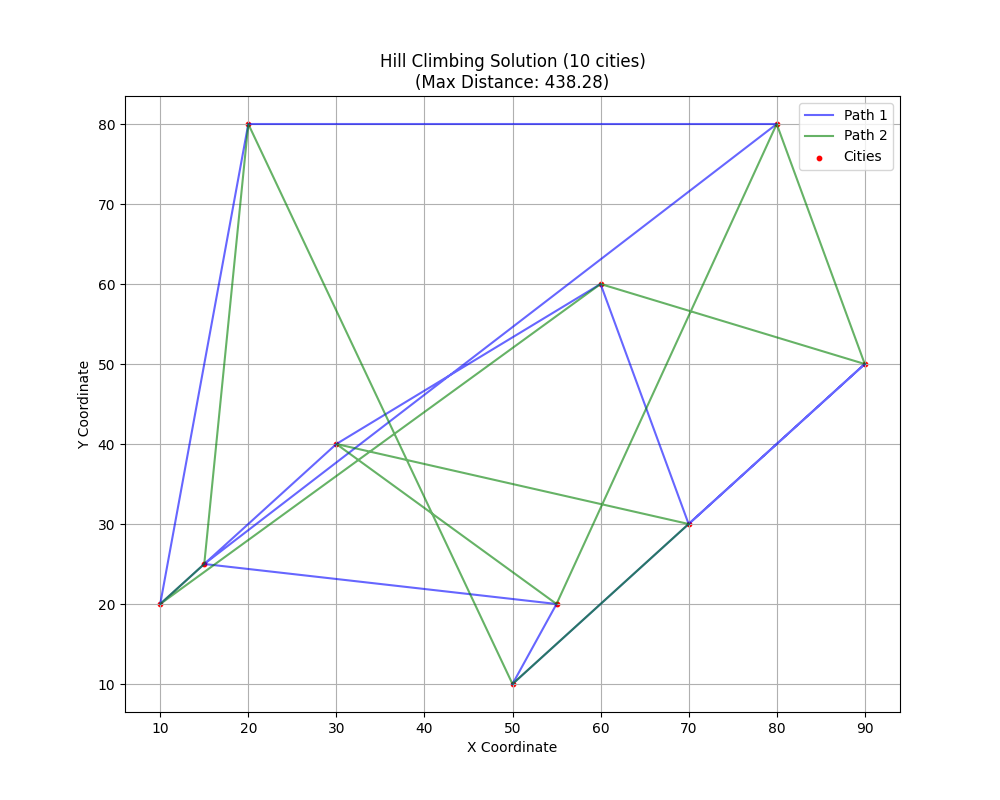
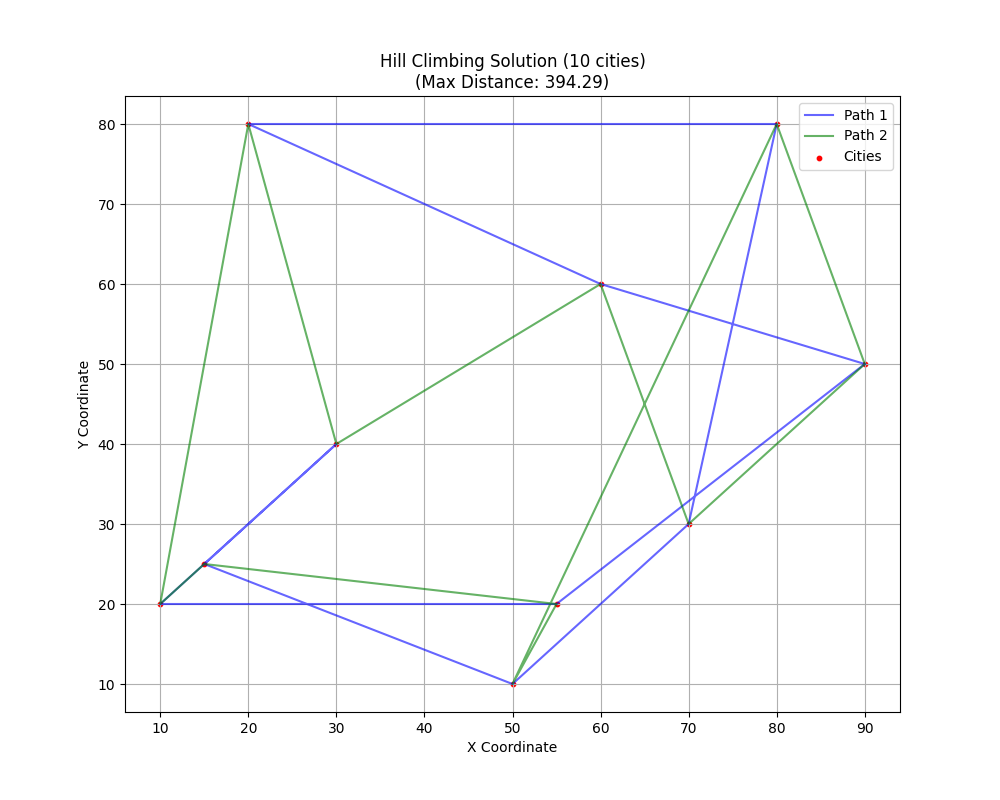
optimized algorithm

diff --git a/src/algorithms/hill_climbing.py b/src/algorithms/hill_climbing.py
@@ -1,80 +1,65 @@
 import numpy as np
 
-def apply_2opt(path):
-    """reverses a random segment to resolve crossings"""
-    if len(path) < 3:
-        return path.copy()
-    new_path = path.copy()
-    idx1, idx2 = sorted(np.random.choice(len(path), 2, replace=False))
-    new_path[idx1:idx2] = new_path[idx1:idx2][::-1]
-    return new_path
 
-def apply_inter_swap(path1, path2):
-    """swaps a random city between the two paths to balance them"""
-    new_path1, new_path2 = path1.copy(), path2.copy()
-    if len(path1) > 0 and len(path2) > 0:
-        idx1 = np.random.randint(len(path1))
-        idx2 = np.random.randint(len(path2))
-        new_path1[idx1], new_path2[idx2] = new_path2[idx2], new_path1[idx1]
-    return new_path1, new_path2
+def build_dist_matrix(coords):
+    diff = coords[:, np.newaxis, :] - coords[np.newaxis, :, :]
+    return np.sqrt((diff ** 2).sum(axis=2))
 
-def get_neighbors(problem, current_state):
-    """generate 2-opt and inter-path neighbors"""
-    neighbors = []
-    path1, path2 = current_state
-    
-    # generate 50 random neighbors to keep it fast
-    for _ in range(50):
-        # randomly choose an operator
-        op = np.random.choice(['2opt1', '2opt2', 'inter'])
-        
-        if op == '2opt1':
-            new_path1 = apply_2opt(path1)
-            new_path2 = path2.copy()
-        elif op == '2opt2':
-            new_path1 = path1.copy()
-            new_path2 = apply_2opt(path2)
-        else:
-            new_path1, new_path2 = apply_inter_swap(path1, path2)
-            
-        new_state = (new_path1, new_path2)
-        
-        # only keep valid paths
-        is_valid, _ = problem.validate_path(new_state)
-        if is_valid:
-            neighbors.append(new_state)
-            
-    return neighbors
+
+def path_length(path, dm):
+    return dm[path, np.roll(path, -1)].sum()
+
+
+def edge_set(path):
+    n = len(path)
+    return {(min(path[i], path[(i+1) % n]), max(path[i], path[(i+1) % n])) for i in range(n)}
 
 
 def hill_climbing(problem, initial_state=None):
-    # initial state
-    if initial_state is None:
-        current = problem.get_random_solution()
-    else:
-        current = initial_state
-    
+    dm = build_dist_matrix(problem.coords)
+    path1, path2 = problem.get_random_solution() if initial_state is None else initial_state
+
+    dist1, dist2 = path_length(path1, dm), path_length(path2, dm)
+    n = len(path1)
+
     while True:
-        # get neighbors
-        neighbors = get_neighbors(problem, current)
-        
-        if not neighbors:
-            return current
-            
-        best_neighbor = None
-        best_value = float('inf') # look for the lowest distance
-        
-        # evaluate neighbors
-        for neighbor in neighbors:
-            val = problem.calculate_distance(neighbor)
-            if val < best_value:
-                best_value = val
-                best_neighbor = neighbor
-                
-        current_value = problem.calculate_distance(current)
-        
-        # return if no improvement (if the lowest neighbor is still worse than current)
-        if best_value >= current_value:
-            return current
-            
-        current = best_neighbor
+        edges1, edges2 = edge_set(path1), edge_set(path2)
+        best_obj = max(dist1, dist2)   # current objective — only accept strict improvements
+        best_move = None               # (i, j, which, delta)
+
+        # 2-opt moves on path1 — new edges must not already exist in path2
+        for i in range(n - 1):
+            for j in range(i + 2, n):
+                a, b = path1[i], path1[i + 1]
+                c, d = path1[j], path1[(j + 1) % n]
+                if (min(a, c), max(a, c)) in edges2 or (min(b, d), max(b, d)) in edges2:
+                    continue
+                delta = (dm[a, c] + dm[b, d]) - (dm[a, b] + dm[c, d])
+                new_obj = max(dist1 + delta, dist2)
+                if new_obj < best_obj:
+                    best_obj, best_move = new_obj, (i, j, 'p1', delta)
+
+        # 2-opt moves on path2 — new edges must not already exist in path1
+        for i in range(n - 1):
+            for j in range(i + 2, n):
+                a, b = path2[i], path2[i + 1]
+                c, d = path2[j], path2[(j + 1) % n]
+                if (min(a, c), max(a, c)) in edges1 or (min(b, d), max(b, d)) in edges1:
+                    continue
+                delta = (dm[a, c] + dm[b, d]) - (dm[a, b] + dm[c, d])
+                new_obj = max(dist1, dist2 + delta)
+                if new_obj < best_obj:
+                    best_obj, best_move = new_obj, (i, j, 'p2', delta)
+
+        if best_move is None:           # local optimum reached
+            return path1, path2
+
+        i, j, which, delta = best_move
+        if which == 'p1':
+            path1 = path1.copy()
+            path1[i + 1:j + 1] = path1[i + 1:j + 1][::-1]
+            dist1 += delta
+        else:
+            path2 = path2.copy()
+            path2[i + 1:j + 1] = path2[i + 1:j + 1][::-1]
+            dist2 += delta

diff --git a/main.py b/main.py
@@ -1,6 +1,6 @@
 import os
 import sys
-
+import time
 from src.problem import SantaProblem
 
 def run_menu():
@@ -44,53 +44,80 @@ def run_menu():
             continue
             
         size = size_map[size_choice]
-        
+
+        # Hill Climbing is O(n^2) per iteration — warn for large datasets
+        if algo_choice == '1' and size_choice in ('4', '5'):
+            print(f"\n[WARNING] Hill Climbing is not practical for {size} cities.")
+            print("It scans all O(n²) 2-opt neighbors each iteration and will be extremely slow.")
+            confirm = input("Continue anyway? (y/N): ").strip().lower()
+            if confirm != 'y':
+                continue
+
         print(f"\n--- Loading {size} cities ---")
         try:
             problem = SantaProblem(size)
         except Exception as e:
             print(f"Error loading dataset: {e}")
             continue
-            
-        # run alg
+
+        # ── Algorithm dispatch ─────────────────────────────────────────────
         if algo_choice == '1':
-            print("\n--- Running Hill Climbing ---")
             from src.algorithms.hill_climbing import hill_climbing
-            
-            # save initial state
+
+            print("\n--- Running Hill Climbing ---")
+
             initial_state = problem.get_random_solution()
-            initial_val = problem.calculate_distance(initial_state)
-            print(f"Initial Random Distance: {initial_val:.2f}")
-            
-            # run hill climbing
+
+            start_time = time.time()
             final_path = hill_climbing(problem, initial_state)
-            
+            elapsed = time.time() - start_time
+
+            final_distance = problem.calculate_distance(final_path)
+            print(f"Distance: {final_distance:.2f} | Time: {elapsed:.2f}s")
+
+            algo_name  = "Hill Climbing"
+            params_str = "Steepest Ascent (2-opt)"
+            the_path_to_validate = final_path
+            best_overall_dist    = final_distance
+            run_time             = elapsed
+
         elif algo_choice == '2':
             print("\n--- Running Simulated Annealing ---")
-            print("-------------")
+            print("(Pending Team Member)")
             continue
+
         elif algo_choice == '3':
             print("\n--- Running Genetic Algorithm ---")
-            print("-------------")
+            print("(Pending Team Member)")
             continue
-            
-        # validate and print
+
+        # ── Validation & results ───────────────────────────────────────────
         print("\n--- Results ---")
-        is_valid, message = problem.validate_path(final_path)
+        is_valid, message = problem.validate_path(the_path_to_validate)
         print(f"Path Validation: {message}")
 
         if is_valid:
-            final_distance = problem.calculate_distance(final_path)
-            print(f"Final Climed Distance: {final_distance:.2f}")
-            print(f"Total Improvement: {initial_val - final_distance:.2f}")
+            print(f"Best Distance : {best_overall_dist:.2f}")
+            print(f"Execution Time: {run_time:.2f}s")
 
-            # only plot if <= 1000 cities or matplotlib freezes
+            log_line = (
+                f"{algo_name} | Dataset: {size} | Env: {params_str} "
+                f"| Dist: {best_overall_dist:.2f} | Time: {run_time:.2f}s\n"
+            )
+            try:
+                with open("results.txt", "a") as f:
+                    f.write(log_line)
+                print(">> Saved metrics to results.txt")
+            except Exception as e:
+                print(f"Failed to log results: {e}")
+
             if problem.num_cities <= 1000:
                 print("\nSaving plot visualization to 'solution.png'...")
-                algo_names = {'1': 'Hill Climbing', '2': 'Simulated Annealing', '3': 'Genetic Algorithm'}
-                problem.plot_solution(final_path, title=f"{algo_names[algo_choice]} Solution ({size} cities)")
+                problem.plot_solution(
+                    the_path_to_validate,
+                    title=f"{algo_name} Solution ({size} cities)"
+                )
 
-        # wait before menu
         input("\nPress Enter to return to the main menu...")
 
 if __name__ == "__main__":
